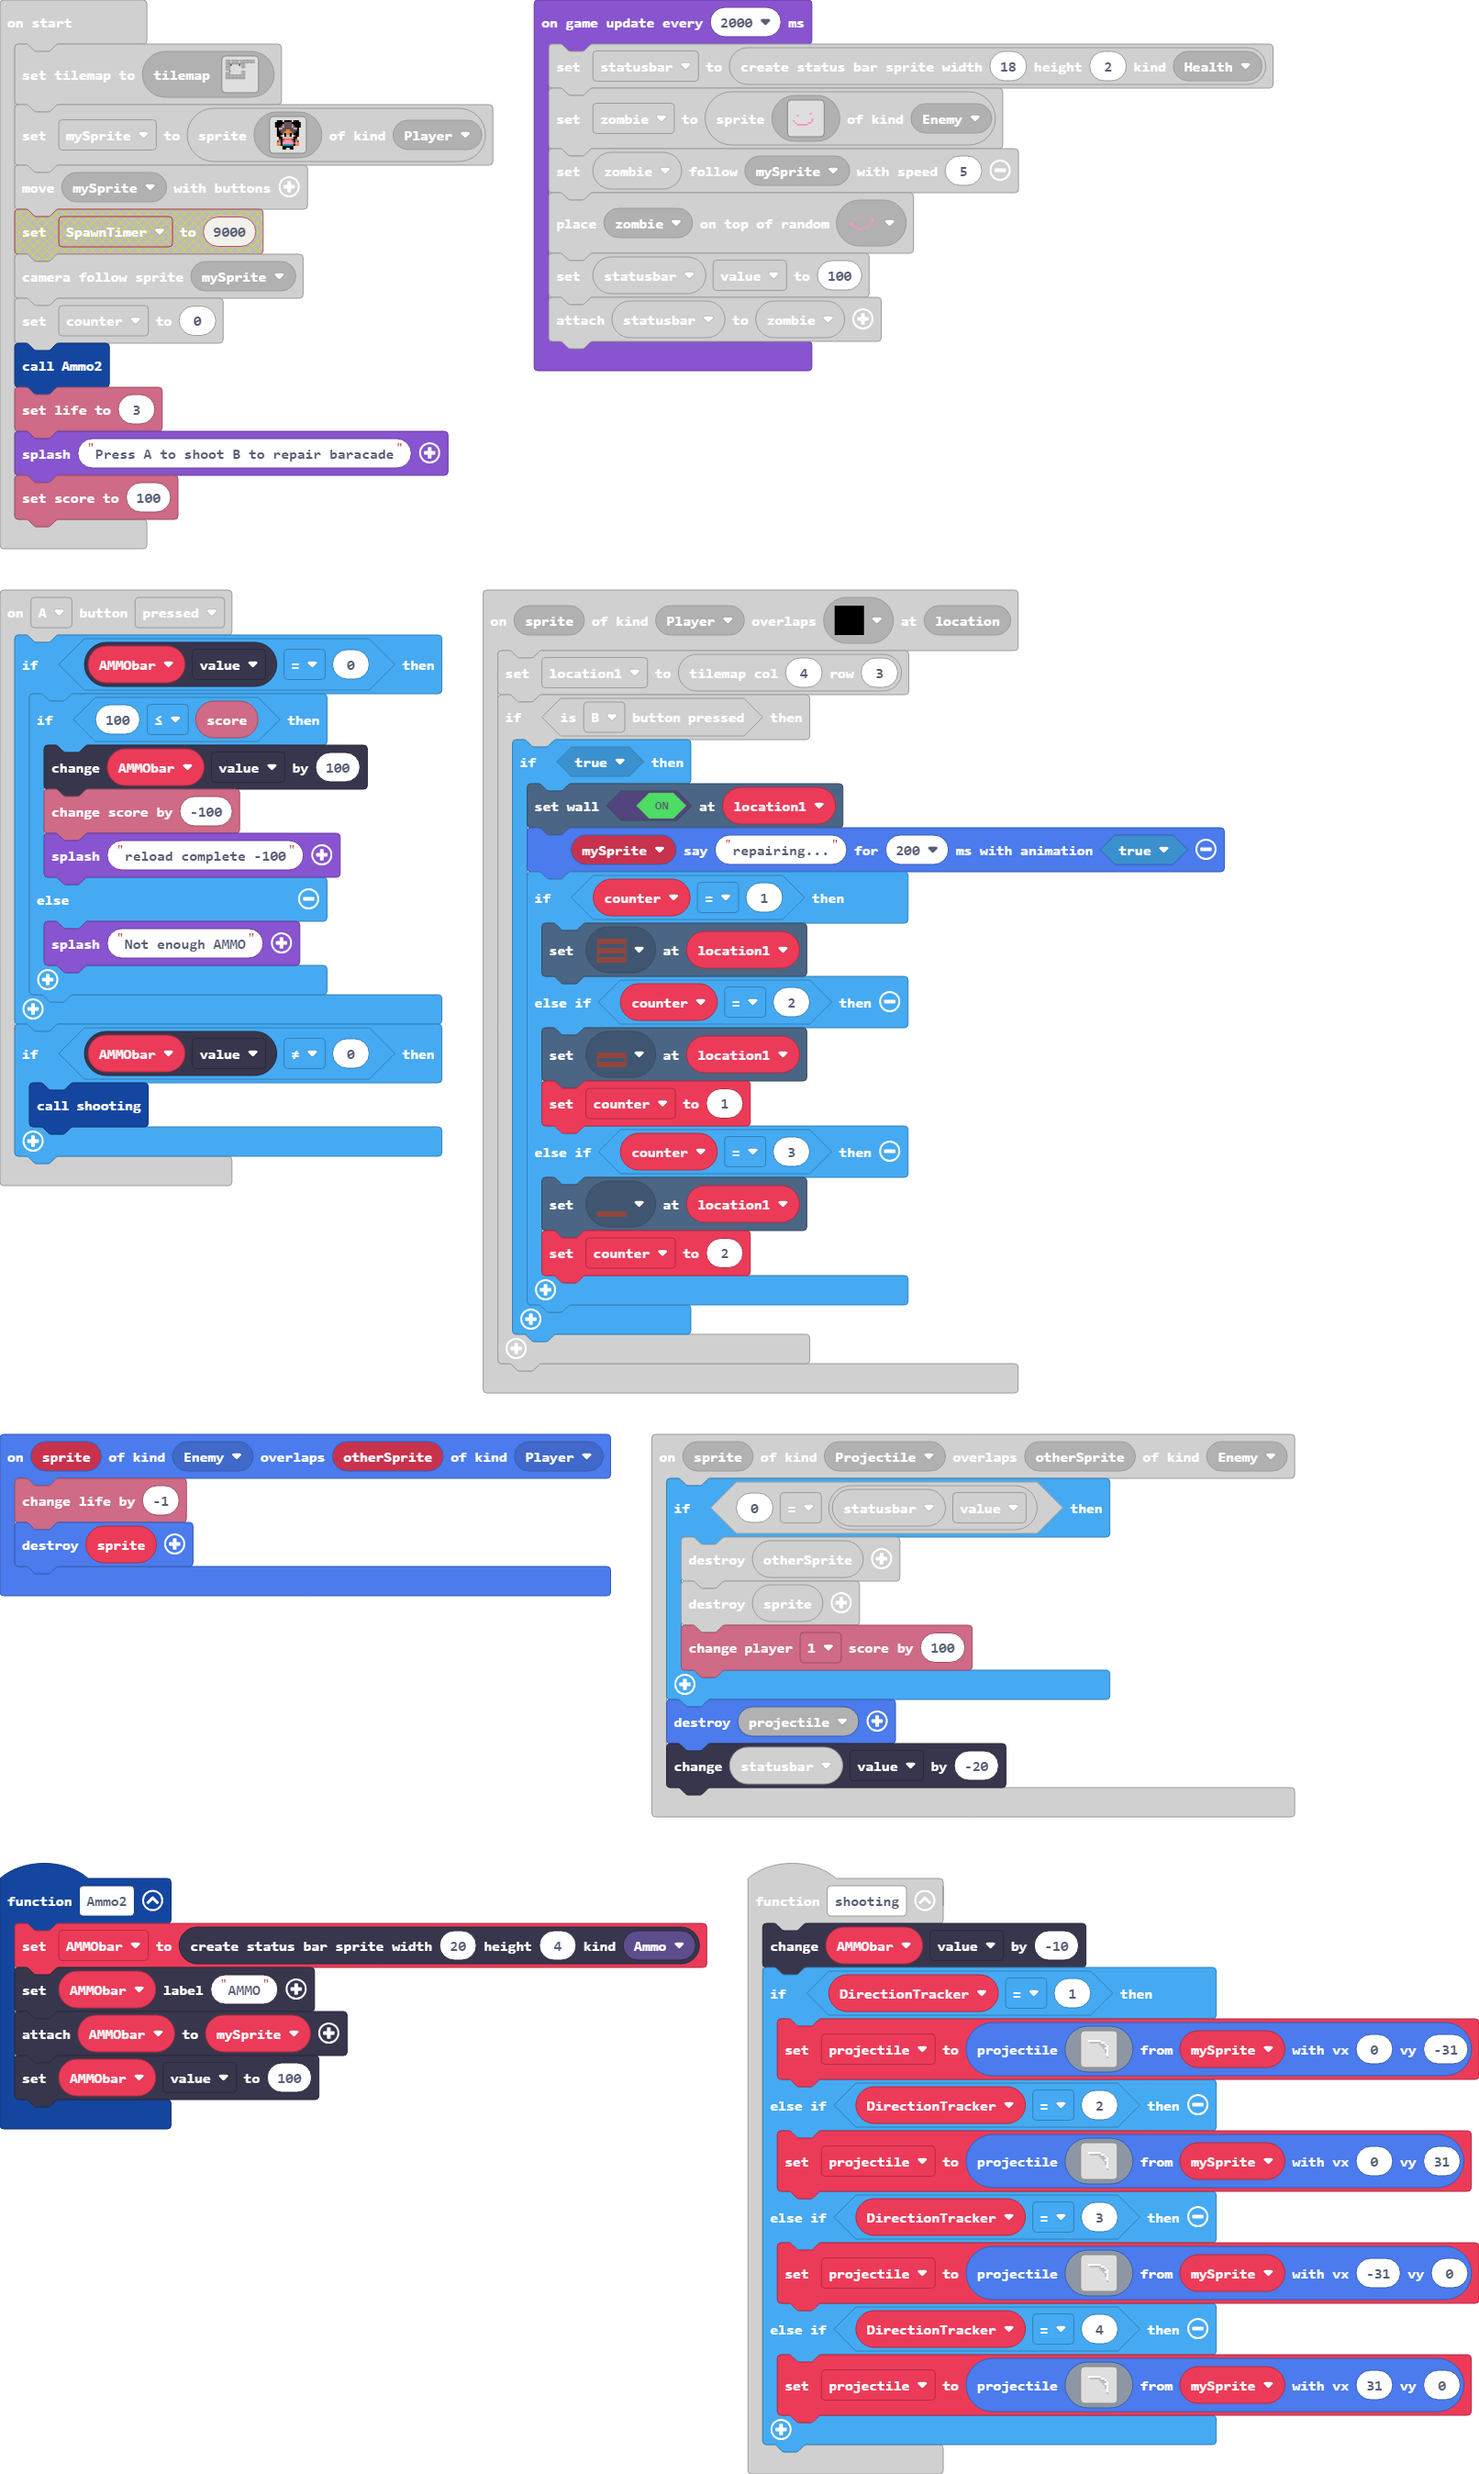
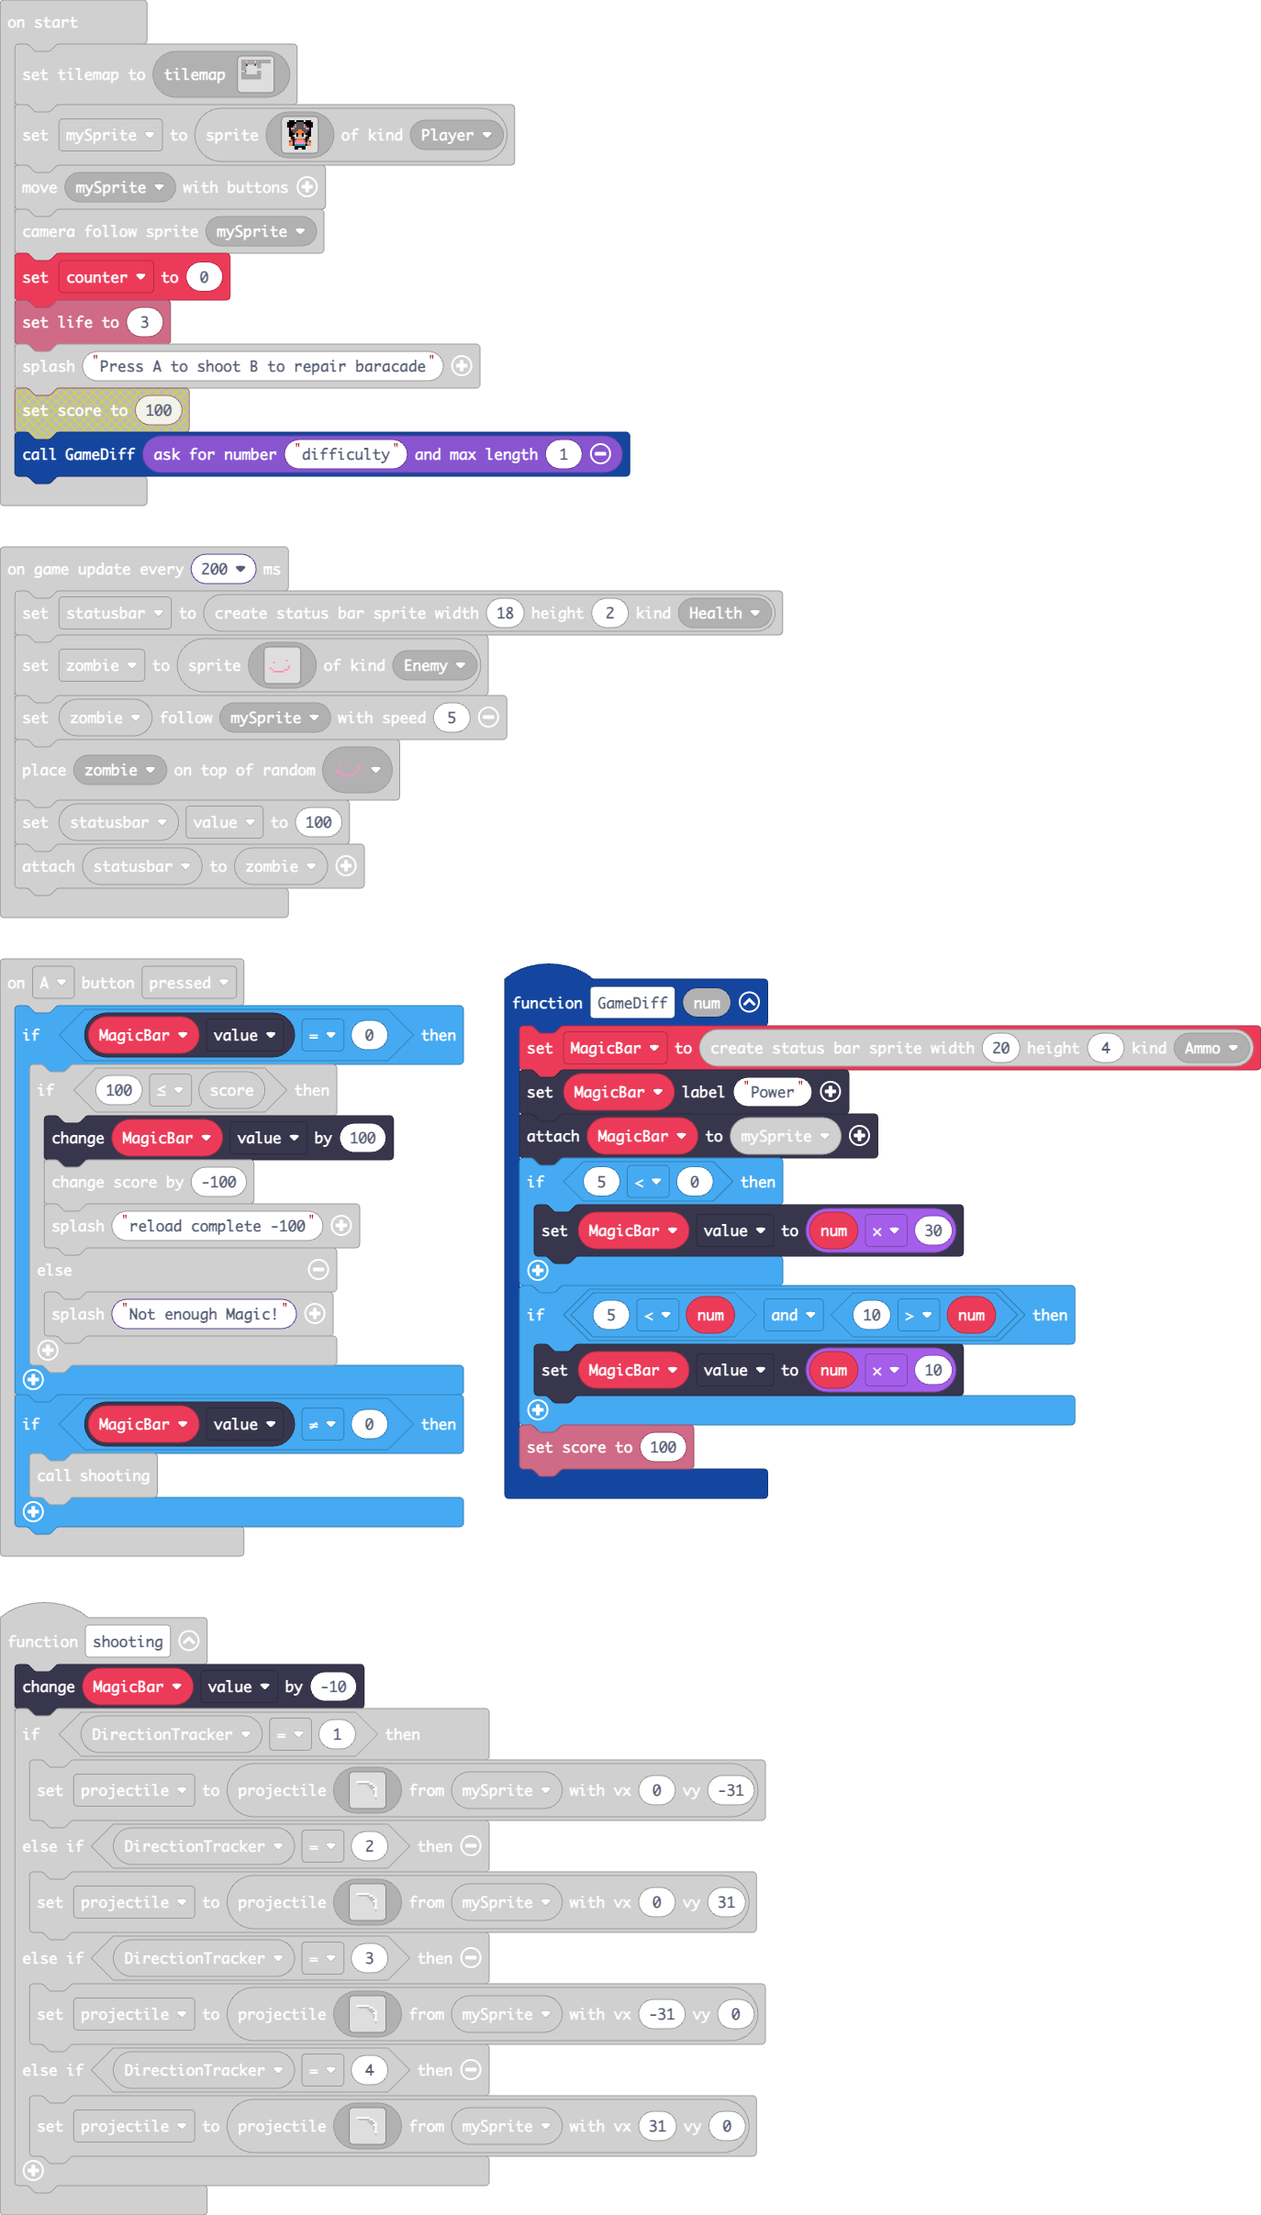
Update pxt.json, main.blocks, main.ts

diff --git a/main.ts b/main.ts
@@ -24,16 +24,16 @@ controller.up.onEvent(ControllerButtonEvent.Pressed, function () {
     DirectionTracker = 1
 })
 controller.A.onEvent(ControllerButtonEvent.Pressed, function () {
-    if (AMMObar.value == 0) {
+    if (MagicBar.value == 0) {
         if (100 <= info.score()) {
-            AMMObar.value += 100
+            MagicBar.value += 100
             info.changeScoreBy(-100)
             game.splash("reload complete -100")
         } else {
-            game.splash("Not enough AMMO")
+            game.splash("Not enough Magic!")
         }
     }
-    if (AMMObar.value != 0) {
+    if (MagicBar.value != 0) {
         shooting()
     }
 })
@@ -62,16 +62,22 @@ scene.onHitWall(SpriteKind.Enemy, function (sprite, location) {
 controller.right.onEvent(ControllerButtonEvent.Pressed, function () {
     DirectionTracker = 4
 })
-function Ammo2 () {
-    AMMObar = statusbars.create(20, 4, StatusBarKind.Ammo)
-    AMMObar.setLabel("AMMO")
-    AMMObar.attachToSprite(mySprite)
-    AMMObar.value = 100
-}
 sprites.onOverlap(SpriteKind.Enemy, SpriteKind.Player, function (sprite, otherSprite) {
     info.changeLifeBy(-1)
     sprites.destroy(sprite)
 })
+function GameDiff (num: number) {
+    MagicBar = statusbars.create(20, 4, StatusBarKind.Ammo)
+    MagicBar.setLabel("Power")
+    MagicBar.attachToSprite(mySprite)
+    if ((5 as any) < (0 as any)) {
+        MagicBar.value = num * 30
+    }
+    if (5 < num && 10 > num) {
+        MagicBar.value = num * 10
+    }
+    info.setScore(100)
+}
 controller.down.onEvent(ControllerButtonEvent.Pressed, function () {
     DirectionTracker = 2
 })
@@ -94,7 +100,7 @@ scene.onOverlapTile(SpriteKind.Player, assets.tile`FLOOR`, function (sprite, loc
     }
 })
 function shooting () {
-    AMMObar.value += -10
+    MagicBar.value += -10
     if (DirectionTracker == 1) {
         projectile = sprites.createProjectileFromSprite(assets.image`blade`, mySprite, 0, -31)
     } else if (DirectionTracker == 2) {
@@ -117,7 +123,7 @@ sprites.onOverlap(SpriteKind.Projectile, SpriteKind.Enemy, function (sprite, oth
 let zombie: Sprite = null
 let statusbar: StatusBarSprite = null
 let projectile: Sprite = null
-let AMMObar: StatusBarSprite = null
+let MagicBar: StatusBarSprite = null
 let DirectionTracker = 0
 let location1: tiles.Location = null
 let counter = 0
@@ -127,11 +133,10 @@ mySprite = sprites.create(assets.image`blob`, SpriteKind.Player)
 controller.moveSprite(mySprite)
 scene.cameraFollowSprite(mySprite)
 counter = 0
-Ammo2()
 info.setLife(3)
 game.splash("Press A to shoot B to repair baracade")
-info.setScore(100)
-game.onUpdateInterval(2000, function () {
+GameDiff(game.askForNumber("difficulty", 1))
+game.onUpdateInterval(200, function () {
     statusbar = statusbars.create(18, 2, StatusBarKind.Health)
     zombie = sprites.create(assets.image`myImage0`, SpriteKind.Enemy)
     zombie.follow(mySprite, 5)
